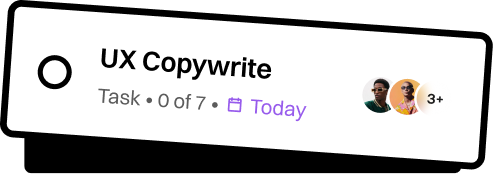
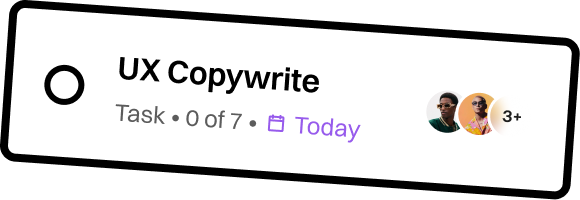
scrolling gsap animation

diff --git a/src/styles/fintask.css b/src/styles/fintask.css
@@ -129,8 +129,43 @@
     line-height: var(--h1-line-height);
 
     & + & { margin-top: .05em; }
-    & .fintask-title-team { width: 1.64em; }
-    & .fintask-title-task { width: 4.02em; }
+    & [data-shadow-lift] {
+      position: relative;
+      &::before {
+        content: "";
+        position: absolute;
+        opacity: clamp(0, var(--lift), 1);
+        pointer-events: none;
+      }
+      & img {
+        position: absolute;
+        top: 0;
+        --bounce-x: 1;
+        --bounce-y: 1;
+        --bounce-rise: 0px;
+        transform: translateY(var(--bounce-rise)) scale(var(--bounce-x), var(--bounce-y));
+        translate: calc((1 - var(--lift)) * var(--flush-x)) calc((1 - var(--lift)) * var(--flush-y));
+        rotate: calc((1 - var(--lift)) * var(--flush-angle));
+      }
+    }
+    & .fintask-title-team {
+      width: 1.64em;
+      aspect-ratio: 118.2 / 67.12;
+      --flush-x: -11%;
+      --flush-y: 17%;
+      --flush-angle: -8deg;
+      &::before { inset: auto auto 0 0; width: 83.75%; height: 67%; border-radius: var(--radius-round); background: color-mix(in srgb, var(--ft-ink) 20%, transparent); }
+      & img { right: 0; width: 94.93%; }
+    }
+    & .fintask-title-task {
+      width: 4.02em;
+      aspect-ratio: 289.88 / 101.83;
+      --flush-x: -0.7%;
+      --flush-y: 15.5%;
+      --flush-angle: -4deg;
+      &::before { inset: auto auto 0 4.96%; width: 88.66%; height: 71.69%; border-radius: .055em; background: var(--ft-ink); }
+      & img { left: 0; width: 100%; }
+    }
     @media (width < 48rem) {
       flex-wrap: wrap;
       gap: 0 .15em;
@@ -140,6 +175,26 @@
     @media (width < 30rem) {
       & .fintask-title-team { width: 1.2em; }
       & .fintask-title-task { display: none; }
+    }
+  }
+  [data-shadow-lift] {
+    --lift: calc(var(--lift-load, 1) * (1 + var(--lift-hover, 0)));
+  }
+  .fintask .form_wrap { --shadow-depth: .25rem; }
+  .fintask :is(.button_wrap, .nav_join)[data-shadow-lift="cta"] {
+    --depth: var(--shadow-depth, .4375rem);
+    --offset: calc(var(--lift) * var(--depth));
+    box-shadow: var(--offset) var(--offset) 0 var(--button-border);
+    translate: calc(var(--depth) - var(--offset)) calc(var(--depth) - var(--offset));
+    scale: calc(1 + var(--lift-hover, 0) * .08);
+    &.nav_join {
+      --shadow-depth: .25rem;
+      --button-border: var(--ft-ink);
+    }
+    &.secondary { --shadow-depth: .25rem; }
+    &:focus-visible { background-color: var(--ft-ink); color: var(--ft-paper); }
+    @media (hover: hover) {
+      &:hover { background-color: var(--ft-ink); color: var(--ft-paper); }
     }
   }
   .layout > .fintask-calendar {
